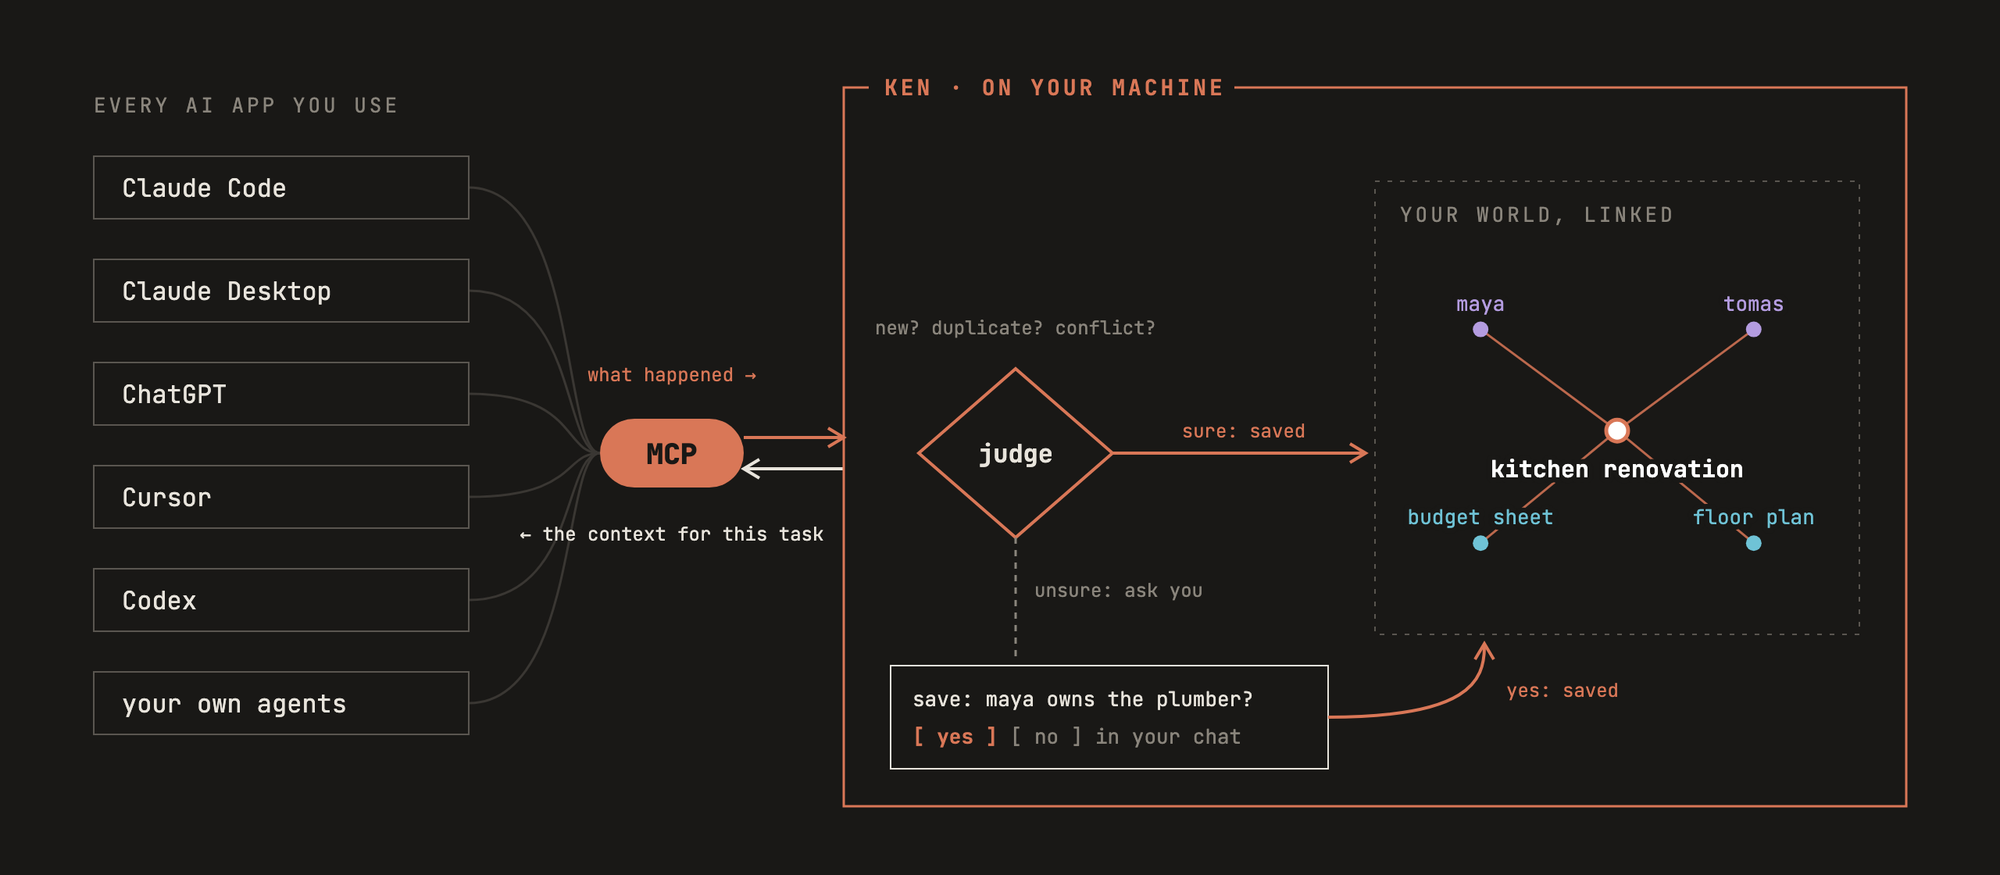
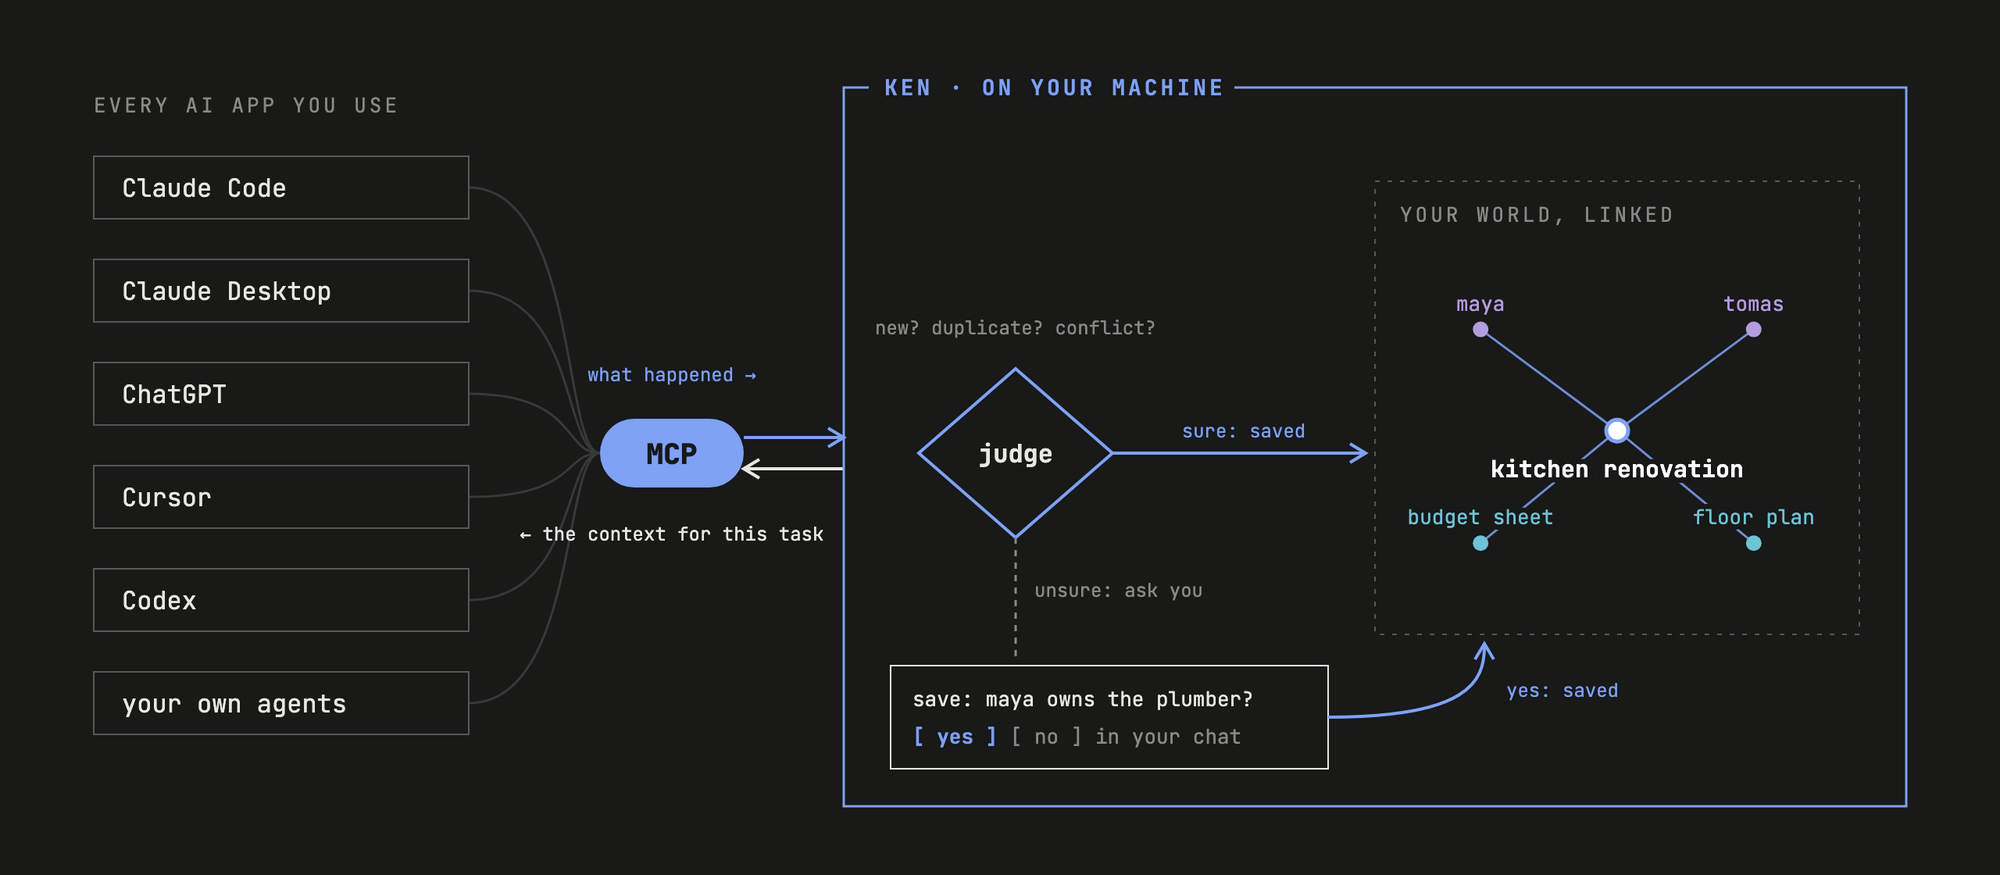
Brand: iron-gall blue in ken init and the README images (#26)

diff --git a/engine/src/ken/__main__.py b/engine/src/ken/__main__.py
@@ -292,7 +292,7 @@ def _c(code: str, text: str) -> str:
     return f"\033[{code}m{text}\033[0m" if _color() else text
 
 
-_CLAY = "38;2;184;90;60"          # the brand clay, #B85A3C
+_ACCENT = "38;2;79;123;224"       # the brand blue for a terminal, #4F7BE0 (iron-gall #2751B8 is too dark on black)
 _MARKS = {"ok": ("32", "✓"), "no": ("31", "✗"), "note": ("33", "!"), "skip": ("2", "·")}
 _WORDMARK = ("██╗  ██╗███████╗███╗   ██╗", "██║ ██╔╝██╔════╝████╗  ██║", "█████╔╝ █████╗  ██╔██╗ ██║",
              "██╔═██╗ ██╔══╝  ██║╚██╗██║", "██║  ██╗███████╗██║ ╚████║", "╚═╝  ╚═╝╚══════╝╚═╝  ╚═══╝")
@@ -317,7 +317,7 @@ class _Step:
         def spin() -> None:
             frames, i = "⠋⠙⠹⠸⠼⠴⠦⠧⠇⠏", 0
             while not self._stop.is_set():
-                sys.stdout.write(f"\r  {_c(_CLAY, frames[i % 10])} {_c('1', self.title)} {_c('2', 'working…')}\033[K")
+                sys.stdout.write(f"\r  {_c(_ACCENT, frames[i % 10])} {_c('1', self.title)} {_c('2', 'working…')}\033[K")
                 sys.stdout.flush()
                 i += 1
                 time.sleep(0.08)
@@ -366,10 +366,10 @@ def _banner() -> None:
     if sys.stdout.isatty() and shutil.get_terminal_size((80, 24)).columns >= 40:
         bar = ("   ", "   ", "███", "███", "███", "   ")
         for row, b in zip(_WORDMARK, bar):
-            print(f"  {_c('1', row)} {_c(_CLAY, b)}")
+            print(f"  {_c('1', row)} {_c(_ACCENT, b)}")
         print(f"\n  the current state of your life, for every AI you use  {_c('2', f'· v{__version__}')}\n")
     else:
-        print(f"  {_c('1', 'ken')}{_c(_CLAY, '▮')}  the current state of your life, for every AI you use"
+        print(f"  {_c('1', 'ken')}{_c(_ACCENT, '▮')}  the current state of your life, for every AI you use"
               f"  {_c('2', f'· v{__version__}')}\n")
 
 
@@ -660,7 +660,7 @@ def _summary(running: bool, llm: dict, name: str | None, by_hand: str) -> None:
     for key, val in rows:
         print(f"    {_c('2', f'{key:<7}')} {val}")
     if len(steps) == 1:
-        print(f"\n  {_c(_CLAY, '→')} {steps[0]}")
+        print(f"\n  {_c(_ACCENT, '→')} {steps[0]}")
     else:
         print("\n  " + _c("1", "Next:") + "".join(f"\n    {i}. {s}" for i, s in enumerate(steps, 1)))
     print(f"\n  {_c('2', f'Cursor, Codex or any MCP client: add a stdio server that runs {_tilde(mcp)}')}\n")

diff --git a/README.md b/README.md
@@ -13,7 +13,7 @@
 
 <p align="center">
   <a href="https://github.com/kenning-labs/ken/actions/workflows/ci.yml"><img alt="CI" src="https://img.shields.io/github/actions/workflow/status/kenning-labs/ken/ci.yml?branch=main&style=flat-square&label=CI"></a>
-  <a href="LICENSE"><img alt="License: AGPL-3.0" src="https://img.shields.io/badge/license-AGPL--3.0-D97757?style=flat-square"></a>
+  <a href="LICENSE"><img alt="License: AGPL-3.0" src="https://img.shields.io/badge/license-AGPL--3.0-2751B8?style=flat-square"></a>
   <img alt="Python 3.11+" src="https://img.shields.io/badge/python-3.11%2B-5A5650?style=flat-square">
 </p>
 
